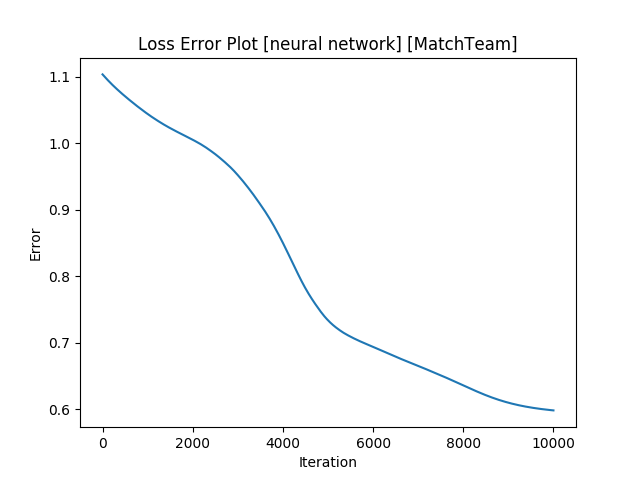
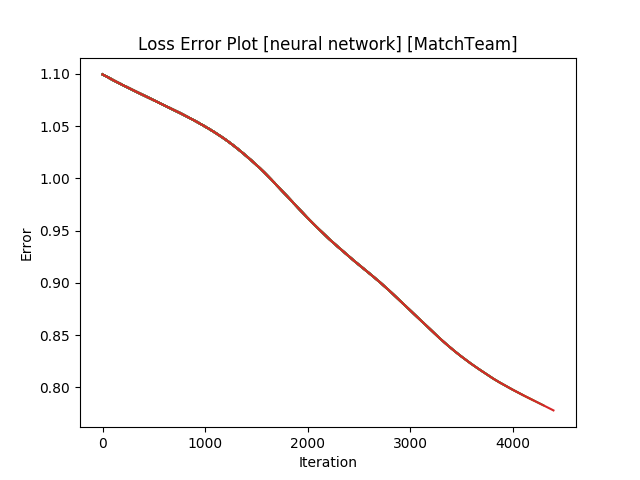
updated new neural network

diff --git a/enhancedNN.py b/enhancedNN.py
@@ -38,8 +38,8 @@ def importDataset(datasetCSVPath, pca):
     testDF = testDF[~np.isnan(testDF).any(axis=1)]
 
     # Separate into inputs and targets by last column
-    inputs = np.array(df[10000:10000 + numExamples, :-1], dtype='float32')
-    targets = np.array([indicatorMap[int(y)] for y in df[10000:10000 + numExamples, -1]], dtype='int64')
+    inputs = np.array(df[:numExamples, :-1], dtype='float32')
+    targets = np.array([indicatorMap[int(y)] for y in df[:numExamples, -1]], dtype='int64')
     test_inputs = np.array(testDF[:, :-1], dtype='float32')
     test_targets = np.array([indicatorMap[int(y)] for y in testDF[:, -1]], dtype='int64')
 
@@ -105,24 +105,31 @@ def fit(num_epochs, model, loss_fn, opt, train_dl, validation_dl, evaluate_train
 
         # Print progress
         if ((epoch + 1) % 1 == 0):
-            sys.stdout.write("Epoch [{}/{}], Loss: {:.4f}, Train error: {:.4f}, Dev error: {:.4f}\r".format(epoch+1, num_epochs, loss.item(), evaluateModel(evaluate_train_dl, model), evaluateModel(validation_dl, model)))
+            trainError = evaluateModel(evaluate_train_dl, model)
+            devError = evaluateModel(validation_dl, model)
+            sys.stdout.write("Epoch [{}/{}], Loss: {:.4f}, Train error: {:.4f}, Dev error: {:.4f}\r".format(epoch+1, num_epochs, loss.item(), trainError, devError))
             sys.stdout.flush()
 
             #append to arrays
             error.append(loss.item())
             iteration.append(epoch)
 
-    #plotting
-    plt.title('Loss Error Plot [neural network] [{}]'.format(datasetCSVPath[7:-8]))
-    plt.xlabel('Iteration')
-    plt.ylabel('Error')
-    plt.ion() # enables interactive mode
-    plt.plot(np.array(iteration), np.array(error))
-    plt.show()
+            if trainError < 0.0001:
+                break
 
-        # print model[0].weight.data
+        if ((epoch + 1) % 100 == 0):
 
-    plt.savefig('enhanced_nn_{}_{}_examples.png'.format(datasetCSVPath[7:-8], numExamples))
+            #plotting
+            plt.title('Loss Error Plot [neural network] [{}]'.format(datasetCSVPath[7:-8]))
+            plt.xlabel('Iteration')
+            plt.ylabel('Error')
+            plt.ion() # enables interactive mode
+            plt.plot(np.array(iteration), np.array(error))
+            plt.show()
+
+                # print model[0].weight.data
+
+            plt.savefig('enhanced_nn_{}_{}_examples.png'.format(datasetCSVPath[7:-8], numExamples))
     print ""
 
 

diff --git a/neuralNetwork.py b/neuralNetwork.py
@@ -14,7 +14,7 @@ from sklearn.decomposition import PCA
 pca = False
 n_in, n_h, n_out = 122, 10, 3
 eta = 0.01
-numEpochs = 50
+numEpochs = 1000
 validation_split = .2
 shuffle_dataset = True
 random_seed= 42
